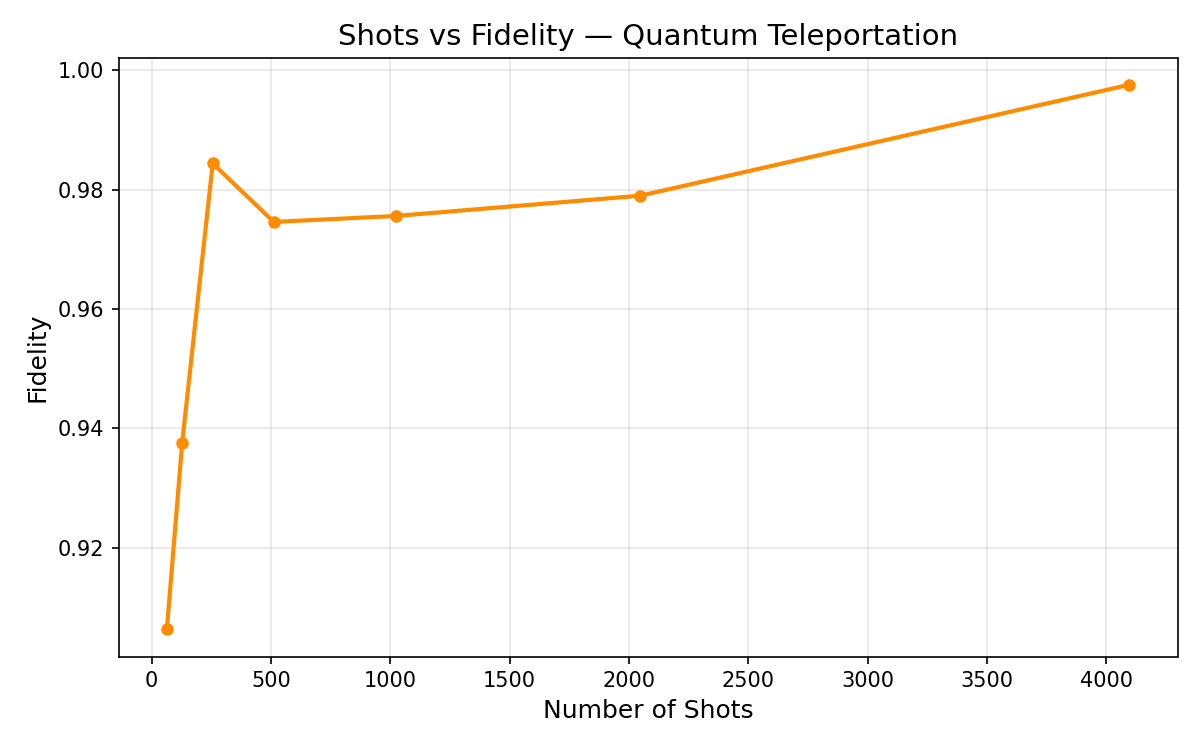
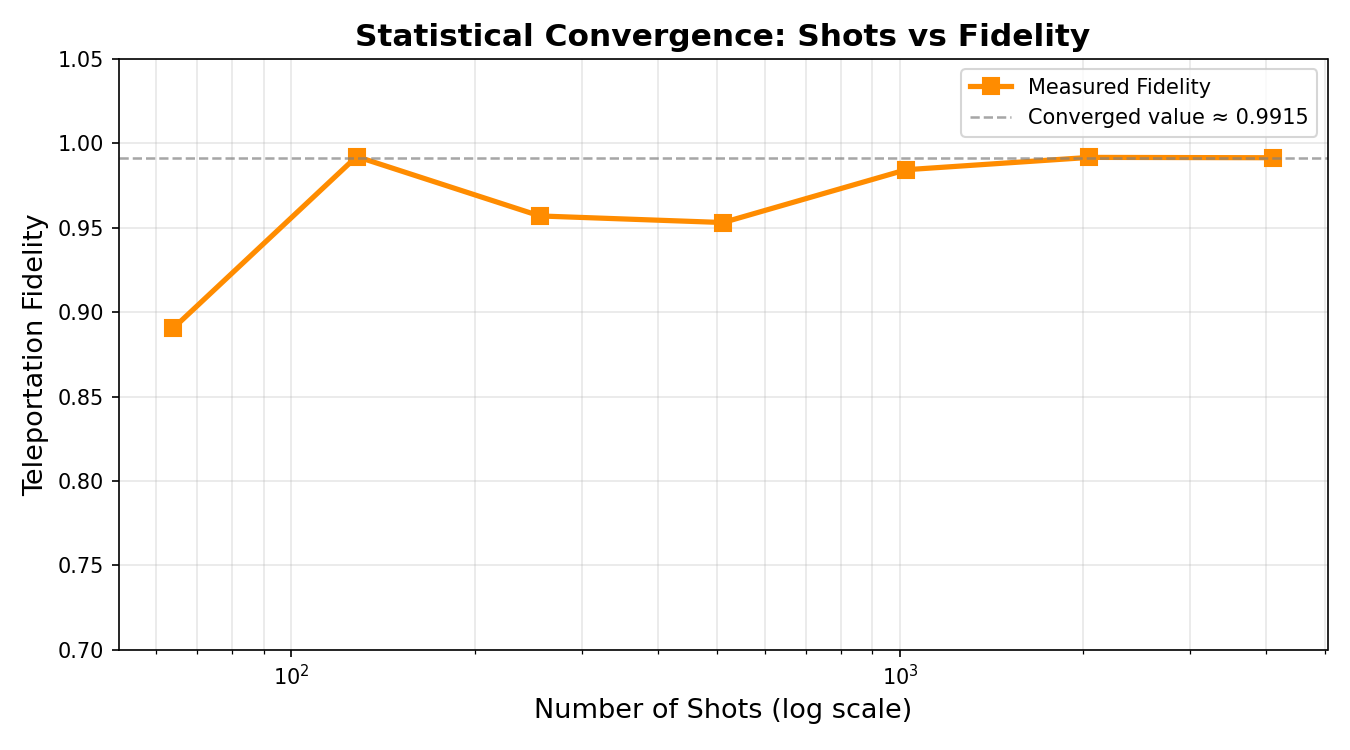
day4: publication quality plots and interpreted results

diff --git a/src/utils.py b/src/utils.py
@@ -20,20 +20,104 @@ def compute_fidelity(counts, theta, shots=None):
     theoretical_prob = np.sin(theta / 2) ** 2
     fidelity = 1 - abs(measured_prob - theoretical_prob)
     return round(fidelity, 4)
-def plot_graph(x, y, xlabel, ylabel, title, save_path, color='steelblue'):
-    """Plots and saves a line graph."""
-    plt.figure(figsize=(8, 5))
-    plt.plot(x, y, marker='o', color=color, linewidth=2, markersize=5)
-    plt.xlabel(xlabel, fontsize=12)
-    plt.ylabel(ylabel, fontsize=12)
-    plt.title(title, fontsize=14)
-    plt.grid(True, alpha=0.3)
+def plot_noise_vs_fidelity(noise_levels, fidelities, save_path):
+    """Publication quality noise vs fidelity plot."""
+    fig, ax = plt.subplots(figsize=(9, 5))
+
+    ax.plot(noise_levels, fidelities, marker='o', color='steelblue',
+            linewidth=2.5, markersize=8, label='Simulated Fidelity')
+
+    # Shade the "acceptable" fidelity zone
+    ax.axhspan(0.9, 1.0, alpha=0.08, color='green', label='High Fidelity Zone (>0.9)')
+    ax.axhspan(0.0, 0.9, alpha=0.08, color='red', label='Degraded Zone (<0.9)')
+    ax.axhline(y=0.9, color='gray', linestyle='--', linewidth=1, alpha=0.7)
+
+    ax.set_xlabel('Depolarizing Noise Level', fontsize=13)
+    ax.set_ylabel('Teleportation Fidelity', fontsize=13)
+    ax.set_title('Effect of Noise on Quantum Teleportation Fidelity', fontsize=15, fontweight='bold')
+    ax.set_ylim(0.5, 1.05)
+    ax.legend(fontsize=10)
+    ax.grid(True, alpha=0.3)
+
+    # Annotate key points
+    ax.annotate(f'Ideal: {fidelities[0]:.4f}',
+                xy=(noise_levels[0], fidelities[0]),
+                xytext=(0.02, fidelities[0] - 0.04),
+                fontsize=9, color='green',
+                arrowprops=dict(arrowstyle='->', color='green', lw=1.2))
+
+    ax.annotate(f'Max Noise: {fidelities[-1]:.4f}',
+                xy=(noise_levels[-1], fidelities[-1]),
+                xytext=(noise_levels[-1] - 0.08, fidelities[-1] - 0.05),
+                fontsize=9, color='red',
+                arrowprops=dict(arrowstyle='->', color='red', lw=1.2))
+
     plt.tight_layout()
     os.makedirs(os.path.dirname(save_path), exist_ok=True)
     plt.savefig(save_path, dpi=150)
     plt.close()
     print(f"Plot saved to {save_path}")
 
+
+def plot_shots_vs_fidelity(shot_counts, fidelities, save_path):
+    """Publication quality shots vs fidelity plot."""
+    fig, ax = plt.subplots(figsize=(9, 5))
+
+    ax.plot(shot_counts, fidelities, marker='s', color='darkorange',
+            linewidth=2.5, markersize=8, label='Measured Fidelity')
+    ax.axhline(y=fidelities[-1], color='gray', linestyle='--',
+               linewidth=1.2, alpha=0.7, label=f'Converged value ≈ {fidelities[-1]:.4f}')
+
+    ax.set_xscale('log')
+    ax.set_xlabel('Number of Shots (log scale)', fontsize=13)
+    ax.set_ylabel('Teleportation Fidelity', fontsize=13)
+    ax.set_title('Statistical Convergence: Shots vs Fidelity', fontsize=15, fontweight='bold')
+    ax.set_ylim(0.7, 1.05)
+    ax.legend(fontsize=10)
+    ax.grid(True, alpha=0.3, which='both')
+
+    plt.tight_layout()
+    os.makedirs(os.path.dirname(save_path), exist_ok=True)
+    plt.savefig(save_path, dpi=150)
+    plt.close()
+    print(f"Plot saved to {save_path}")
+
+
+def plot_theta_vs_fidelity(thetas, fidelities, save_path):
+    """Publication quality theta vs fidelity plot."""
+    fig, ax = plt.subplots(figsize=(9, 5))
+
+    ax.plot(thetas, fidelities, marker='^', color='seagreen',
+            linewidth=2.5, markersize=8, label='Measured Fidelity')
+    ax.axhline(y=1.0, color='gray', linestyle='--',
+               linewidth=1.2, alpha=0.7, label='Perfect Fidelity = 1.0')
+
+    # Mark pi/2 and pi
+    ax.axvline(x=np.pi/2, color='purple', linestyle=':', alpha=0.6, label='θ = π/2')
+    ax.axvline(x=np.pi,   color='brown',  linestyle=':', alpha=0.6, label='θ = π')
+
+    ax.set_xlabel('Input State Angle θ (radians)', fontsize=13)
+    ax.set_ylabel('Teleportation Fidelity', fontsize=13)
+    ax.set_title('Fidelity Across Different Input States', fontsize=15, fontweight='bold')
+    ax.set_ylim(0.9, 1.02)
+    ax.set_xticks([0, np.pi/4, np.pi/2, 3*np.pi/4, np.pi])
+    ax.set_xticklabels(['0', 'π/4', 'π/2', '3π/4', 'π'])
+    ax.legend(fontsize=10)
+    ax.grid(True, alpha=0.3)
+
+    plt.tight_layout()
+    os.makedirs(os.path.dirname(save_path), exist_ok=True)
+    plt.savefig(save_path, dpi=150)
+    plt.close()
+    print(f"Plot saved to {save_path}")
+
+
+def save_results(data_dict, filepath):
+    """Saves a dict of lists to CSV."""
+    df = pd.DataFrame(data_dict)
+    os.makedirs(os.path.dirname(filepath), exist_ok=True)
+    df.to_csv(filepath, index=False)
+    print(f"Results saved to {filepath}")
 
 def save_results(data_dict, filepath):
     """Saves a dict of lists to CSV."""

diff --git a/src/experiment.py b/src/experiment.py
@@ -8,8 +8,7 @@ sys.path.insert(0, os.path.dirname(os.path.dirname(os.path.abspath(__file__))))
 
 from src.circuit import create_teleportation_circuit
 from src.simulator import run_qasm, run_with_noise
-from src.utils import compute_fidelity, save_results, plot_graph
-
+from src.utils import compute_fidelity, save_results
 
 def experiment_noise_vs_fidelity(shots=8192):
     """
@@ -82,45 +81,30 @@ if __name__ == "__main__":
     shot_counts, fidelities_shots = experiment_shots_vs_fidelity()
     thetas, fidelities_theta = experiment_theta_vs_fidelity()
 
-    # --- Save CSV ---
+    # --- Save all results to CSV ---
     save_results(
-        {'noise_level': noise_levels, 'fidelity': fidelities_noise},
-        'results/data/results.csv'
+        {'noise_level': noise_levels, 'fidelity_noise': fidelities_noise},
+        'results/data/noise_results.csv'
+    )
+    save_results(
+        {'shots': shot_counts, 'fidelity_shots': fidelities_shots},
+        'results/data/shots_results.csv'
+    )
+    save_results(
+        {'theta': [round(t, 4) for t in thetas], 'fidelity_theta': fidelities_theta},
+        'results/data/theta_results.csv'
     )
 
-    # --- Plot 1: Noise vs Fidelity ---
-    plot_graph(
-        x=noise_levels,
-        y=fidelities_noise,
-        xlabel='Depolarizing Noise Level',
-        ylabel='Fidelity',
-        title='Noise vs Fidelity — Quantum Teleportation',
-        save_path='results/plots/noise_vs_fidelity.png',
-        color='steelblue'
-    )
+    # --- Generate beautiful plots ---
+    from src.utils import plot_noise_vs_fidelity, plot_shots_vs_fidelity, plot_theta_vs_fidelity
 
-    # --- Plot 2: Shots vs Fidelity ---
-    plot_graph(
-        x=shot_counts,
-        y=fidelities_shots,
-        xlabel='Number of Shots',
-        ylabel='Fidelity',
-        title='Shots vs Fidelity — Quantum Teleportation',
-        save_path='results/plots/shots_vs_fidelity.png',
-        color='darkorange'
-    )
-
-    # --- Plot 3: Theta vs Fidelity ---
-    plot_graph(
-        x=[round(t, 3) for t in thetas],
-        y=fidelities_theta,
-        xlabel='Input State Angle Theta (radians)',
-        ylabel='Fidelity',
-        title='Input State vs Fidelity — Quantum Teleportation',
-        save_path='results/plots/theta_vs_fidelity.png',
-        color='seagreen'
-    )
+    plot_noise_vs_fidelity(noise_levels, fidelities_noise,
+                           'results/plots/noise_vs_fidelity.png')
+    plot_shots_vs_fidelity(shot_counts, fidelities_shots,
+                           'results/plots/shots_vs_fidelity.png')
+    plot_theta_vs_fidelity(thetas, fidelities_theta,
+                           'results/plots/theta_vs_fidelity.png')
 
     print("\nAll experiments done!")
-    print("CSV saved to results/data/results.csv")
+    print("CSVs saved to results/data/")
     print("Plots saved to results/plots/")
